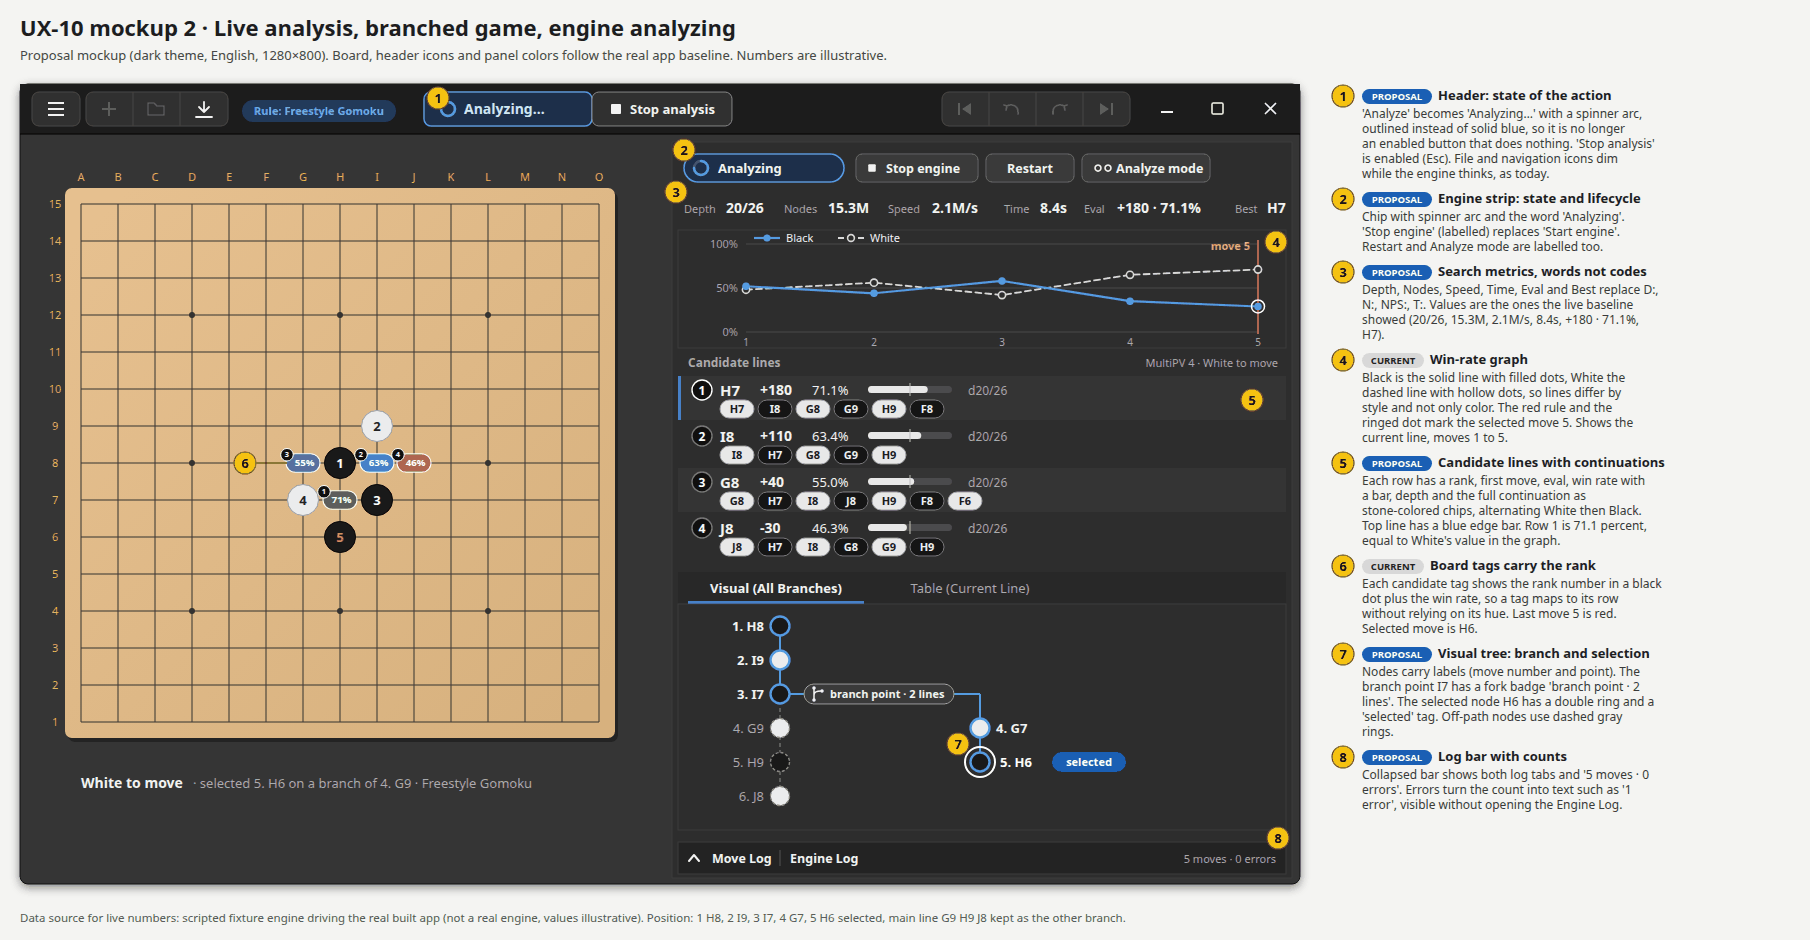
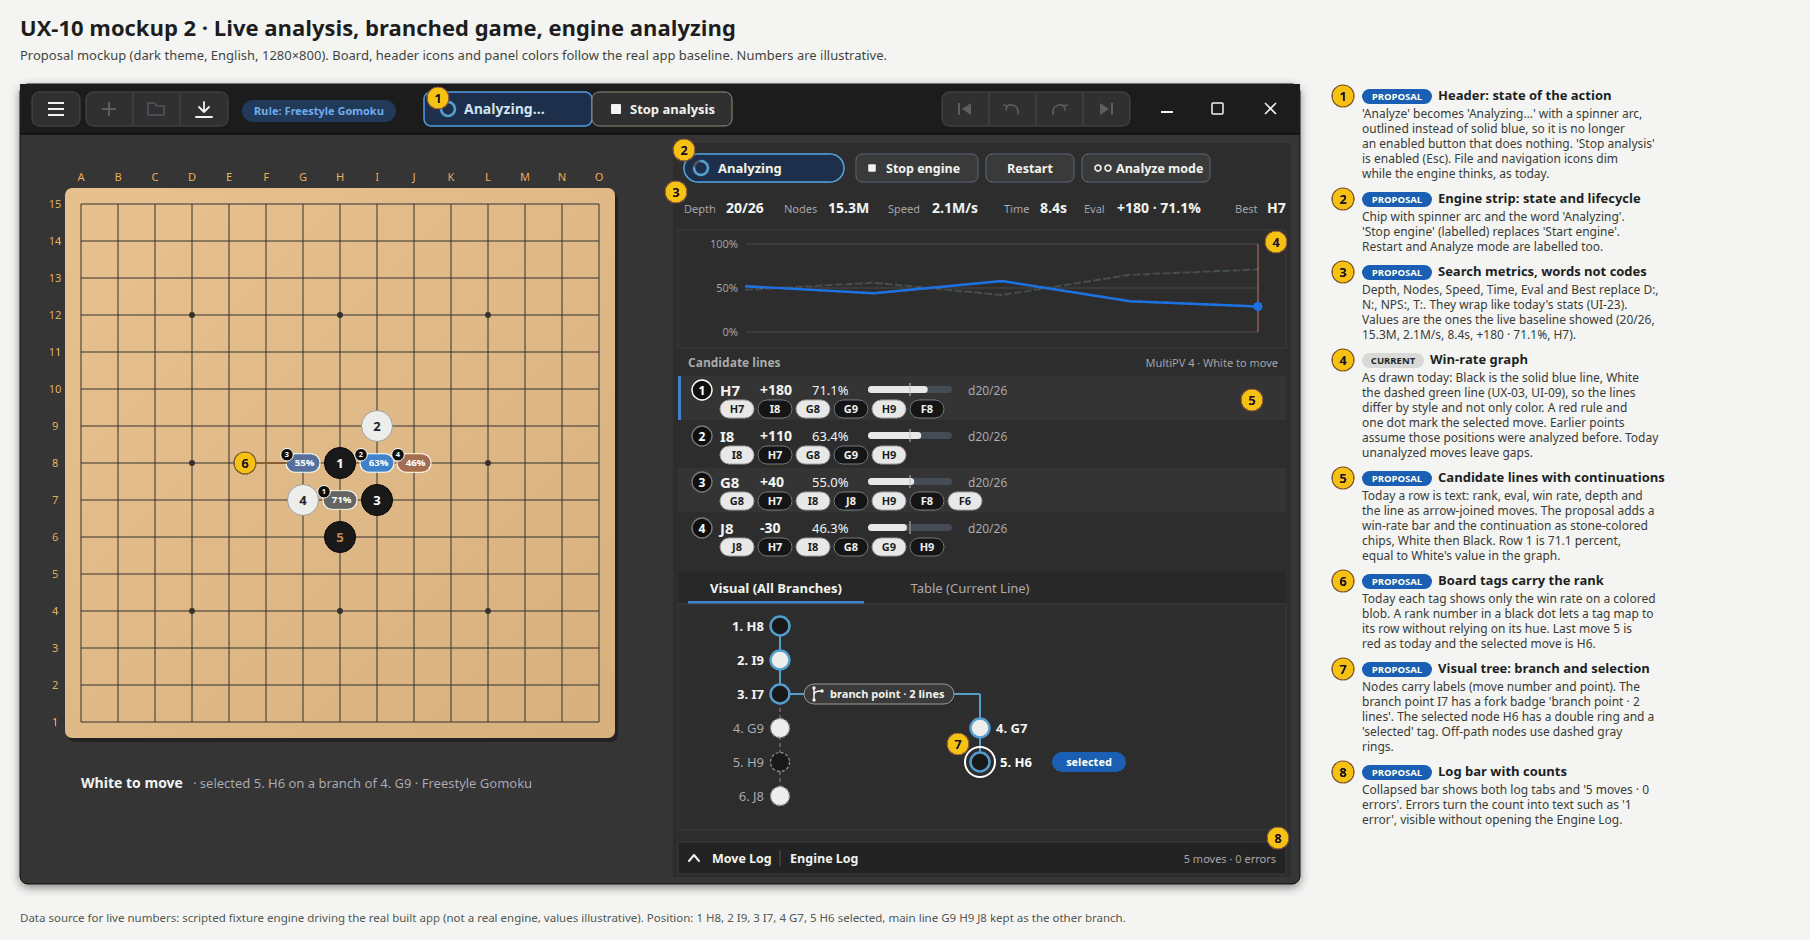
UX-10: tag current versus proposed items and cite earlier decisions
Mark the board rank badge, candidate chips and metric words as proposals,
draw the win graph as it is today (solid blue Black, dashed green White),
keep the UI-08 graph axes and drop the 'no moves yet' caption, record the
UI-21 partial reversal, and turn tracking paths into links.

diff --git a/docs/design/UX-10-analysis-workspace-spec.md b/docs/design/UX-10-analysis-workspace-spec.md
@@ -1,7 +1,7 @@
 # UX-10 — Analysis workspace: interaction spec
 
 Task: [UX-10](../todo/UX-10-analysis-workspace-design.md). Review date 2026-11-18, app v0.12.0 (main `375532a`), dark theme, English.
-This is a design only. Nothing here is implemented. Every item is tagged **Current** (observed in the built app or read from source) or **Proposal**.
+This is a design only. Nothing here is implemented. Every item is tagged **Current** (observed in the built app or read from source) or **Proposal**. The method is an expert heuristic walkthrough of the built app (visibility of system status, consistency, recognition over recall, error recovery, per [ux-research-usability](../knowledge/ux-research-usability.md)). It is not evidence from users.
 
 ## Deliverables
 
@@ -24,7 +24,7 @@ Method: the Release build of this worktree, run under Xvfb with an isolated sett
 | B1 | A blue **Analyze** header button and an unlabelled ▶ icon in the engine strip can both start the engine. Header **Stop** (stops analysis) and the strip's ■ icon (stops the engine process) look alike. Only tooltips tell them apart. | [01](baseline/01-new-game-engine-off.png), source `main_window.cpp` (`onStartAnalysis`, `signal_start`, `signal_stop`) |
 | B2 | While the engine thinks, **Analyze** keeps its solid blue look. File and navigation icons dim. | [02](baseline/02-live-analysis-thinking.png) |
 | B3 | The state chip reads OFF, ON, THINKING, CRASHED. The glyph is the same round dot, only its color changes. "ON" does not say idle. | [01](baseline/01-new-game-engine-off.png), [02](baseline/02-live-analysis-thinking.png), [03](baseline/03-after-stop-idle.png), [06](baseline/06-engine-crashed.png), `engine_status.cpp` |
-| B4 | The engine-off analysis area is not fully quiet. It shows `D: - N: - NPS: -` dashes and an empty 100/50/0% graph. | [01](baseline/01-new-game-engine-off.png) |
+| B4 | The engine-off analysis area shows `D: - N: - NPS: -` dashes and an empty 0/50/100% graph scaffold. There is no placeholder text. The scaffold was kept on purpose by [UI-08](../todo/UI-08-remove-empty-state-placeholder-text.md). | [01](baseline/01-new-game-engine-off.png) |
 | B5 | With a bad engine path, Analyze leaves the chip at OFF and shows `D: 0 N: 0 NPS: 0/s Eval: 50.0%`. The only message, `Failed to start engine`, is in the Engine Log tab, which is hidden behind the Move Log tab. | [07](baseline/07-bad-engine-path-stays-off.png), [08](baseline/08-bad-engine-path-engine-log.png) |
 | B6 | After a crash the chip says CRASHED and a red dismissible banner names the engine. The candidate rows and metrics from before the crash stay on screen, unmarked. | [06](baseline/06-engine-crashed.png) |
 | B7 | At 1280×800 the board is 462 px wide. The full-width log pane is 208 px high and mostly empty. | [01](baseline/01-new-game-engine-off.png) |
@@ -57,7 +57,7 @@ Differences from today (all **Proposal**): labelled engine strip, metrics with w
 |---|---|---|---|
 | Header primary | **Analyze** (F5) | Starts the engine if it is not running, then analyzes the selected position. Action `win.analyze`. | **Current** and unchanged. Proposal adds the F5 hint and the tooltip "Starts the engine, then analyzes this position". |
 | Header secondary | **Stop analysis** (Esc) | Stops the search only. The engine stays running. Action `win.stop`. | Today labelled "Stop". Proposal: rename. |
-| Strip | **Start engine** / **Stop engine** | Launch or terminate the engine process. Never starts a search. | Today unlabelled ▶ and ■ icons with tooltips. Proposal: text labels, and only one of the two is shown at a time. |
+| Strip | **Start engine** / **Stop engine** | Launch or terminate the engine process. Never starts a search. | Today unlabelled ▶ and ■ icons with tooltips. Proposal: text labels, and only one of the two is shown at a time. This reverses part of [UI-21](../todo/UI-21-modern-chrome-icons-css.md), which made the engine-status buttons icons. The header keeps its two text labels as UI-21 intended. |
 | Strip | **Restart** | Reloads the engine. | Today ↻ icon. |
 | Strip | **Analyze mode** | Continuously analyzes each position. | Today ∞ icon. |
 
@@ -79,16 +79,16 @@ Each state therefore has a word, a distinct shape and a different set of enabled
 
 ## Quiet engine-off panes (UI-08)
 
-**Proposal:** with the engine off the metrics row, graph contents, candidate lines and tree stay empty with no placeholder text. That means hiding the dash metrics and the empty axes from B4. The first action is carried by the controls only. A failure is not an empty state, so the Disconnected message is allowed.
+Current behavior already follows [UI-08](../todo/UI-08-remove-empty-state-placeholder-text.md): no placeholder text, and the 0/50/100% graph scaffold stays because UI-08 kept it. This spec keeps both. **Proposal:** the only change is to hide the dash-filled metrics row while the engine is off (B4). The first action is carried by the controls alone. The status line under the board says only the side to move and the rule, not a "No moves yet" hint. A failure is not an empty state, so the Disconnected message is allowed.
 
 ## Live analysis view
 
 Mockup 2 carries one position: 1 H8, 2 I9, 3 I7, then the selected branch 4 G7, 5 H6, with White to move. The other branch from 3. I7 is 4 G9, 5 H9, 6 J8.
 
-- **Candidates** show rank, first move, eval, win rate with a bar, depth and the full continuation as chips colored by the side that plays them. Board tags carry the same rank number inside a black dot, so a tag finds its row without relying on its hue. Row 1 is 71.1 percent, equal to White's point in the graph.
-- **Graph** (`WinGraphMode::BothSide`, the default): Black is the solid line with filled dots, White the dashed line with hollow dots. A red rule and a ringed dot mark move 5. The graph follows the current line, moves 1 to 5.
-- **Metrics** use words: Depth, Nodes, Speed, Time, Eval, Best.
-- Numbers are the ones the fixture produced in the live baseline ([02](baseline/02-live-analysis-thinking.png)) apart from the graph history and tree columns, which were invented to match.
+- **Candidates.** **Current:** each row is text with rank, eval, win rate, depth and the line as arrow-joined moves, and the board tags show the win rate on a colored blob. **Proposal:** a win-rate bar, the continuation as chips colored by the side that plays them, and a rank number inside a black dot on each board tag so a tag finds its row without relying on its hue. Row 1 is 71.1 percent, equal to White's point in the graph.
+- **Graph.** **Current:** `WinGraphMode::BothSide` is the default. Black is the solid blue line, White the dashed green line ([UX-03 and UI-09](../fix-log/2026-08-31-ui-09-wingraph-single-side-black-and-thicker-line.md) style cue), with a red rule and one dot at the selected move. It follows the current line. The mockup shows lines only, without per-point markers, as drawn today. **Assumption:** points for moves 1 to 4 exist because those positions were analyzed earlier. Unanalyzed moves leave gaps today.
+- **Metrics.** **Proposal:** words (Depth, Nodes, Speed, Time, Eval, Best) instead of D:, N:, NPS:, T:. They wrap in the same flow box ([UI-23](../todo/UI-23-typography-and-layout-polish.md)).
+- **Data.** Numbers for the candidates and metrics are the ones the fixture produced in the live baseline ([02](baseline/02-live-analysis-thinking.png)). The graph history and tree columns were invented to match.
 
 ## Visual and Table views
 
@@ -111,17 +111,26 @@ See [visual-and-table-views.svg](visual-and-table-views.svg).
 
 See [narrow-window-and-panels.svg](narrow-window-and-panels.svg).
 
-**Discovery (Current):** the toggles exist only under main menu → View, as one "Analysis Panel" entry and one "Move/Engine Log Panel" entry. There is no shortcut, no palette command and no on-screen cue once a panel is hidden (B11).
+**Discovery (Current):** the toggles exist only under main menu → View, as one "Analysis Panel" entry and one "Move/Engine Log Panel" entry. There is no shortcut, no palette command and no on-screen cue once a panel is hidden (B11). Session-only visibility was a deliberate choice to avoid a settings-schema change, and shortcuts and palette entries were recorded as unfiled ideas in the [2026-11-12 audit entry](../audit/2026-11-log.md). This spec does not change persistence.
 
 **Board space (Current, measured at 926×560):** default 290 px, logs hidden 382 px, both hidden 427 px. At the default size the numbers on the stones are about 8 px and the 4 candidate lines show 2.
 
 **Proposal:**
 
-1. Replace the full-width log pane with a 28 px **log bar** in the analysis column that shows the "Move Log" and "Engine Log" tabs. One click on either opens a drawer in that column on that tab. The board stays 382 px at 926×560.
+1. Replace the full-width log pane with a 32 px **log bar** in the analysis column that shows the "Move Log" and "Engine Log" tabs. One click on either opens a drawer in that column on that tab. The board stays 382 px at 926×560.
 2. The bar shows counts as text ("5 moves · 0 errors", "Engine Log · 1 error") so a failed start is not hidden (B5).
 3. Split the View entry into **Analysis Panel**, **Move Log** and **Engine Log**, and add the same commands to the Ctrl+K palette.
 4. A hidden Analysis panel leaves a 28 px rail labelled "Analysis". Clicking it restores the panel. Board about 395 px with the bar kept (an estimate, 427 px was measured with nothing below the board).
 5. Below about 1000 px wide or 700 px high, start with the bar folded. A manual choice wins for the session.
+
+## Earlier decisions this design touches
+
+| Decision | Effect |
+|---|---|
+| [UI-08](../todo/UI-08-remove-empty-state-placeholder-text.md) clean empty panes, graph axes kept | Kept. Only the dash metrics row is proposed to hide. |
+| [UI-21](../todo/UI-21-modern-chrome-icons-css.md) icon-first chrome | Partly reversed in the engine strip only (text labels). Header icons and the two labelled primary buttons stay. |
+| [UI-23](../todo/UI-23-typography-and-layout-polish.md) type scale, wrapping engine stats | Kept. Word labels must wrap in the flow box. |
+| Session-only panel visibility ([audit 2026-11-12](../audit/2026-11-log.md)) | Kept. Palette entries and shortcuts were already noted there as ideas. |
 
 ## Open questions
 

diff --git a/docs/todo/UX-10-analysis-workspace-design.md b/docs/todo/UX-10-analysis-workspace-design.md
@@ -1,6 +1,6 @@
 # UX-10 — Design the analysis workspace for a new game and live analysis
 
-**Status:** ✅ DONE (Active — Sprint 28) — five annotated mockups and an interaction spec delivered under `docs/design/` (see Result). Verified by a live baseline review, a mockup walkthrough and ctest 5/5. Fix-log: docs/fix-log/2026-11-18-ux-10-analysis-workspace-design.md
+**Status:** ✅ DONE (Active — Sprint 28) — five annotated mockups and an interaction spec delivered under `docs/design/` (see Result). Verified by a live baseline review, a mockup walkthrough and ctest 5/5. Fix-log: [detail](../fix-log/2026-11-18-ux-10-analysis-workspace-design.md)
 **Area:** Main window layout, engine controls, analysis panel, move tree, and logs
 **Priority:** P3
 **Source:** User's main-window screenshot and UI design discussion, 2026-11-18
@@ -66,6 +66,8 @@ Deliverables, all under [docs/design/](../design/):
 
 Headline proposals: keep the blue **Analyze** as the first action and add a labelled secondary **Start engine**, rename Stop to **Stop analysis**, give each engine state a word plus a shape (Off, Idle, Analyzing, Disconnected), mark the selected node and fork points in Visual, mark the current row and forks in Table, and replace the full-width log pane with a log bar so the board keeps its space.
 
+Earlier decisions touched: UI-08 is kept (no placeholder text, graph axes stay, only the dash metrics row is proposed to hide), UI-21 is partly reversed for the engine-strip buttons (text labels) and the session-only panel visibility decision is kept. The spec lists them in a table.
+
 Findings worth a follow-up, none filed: a failed engine start stays at OFF with the error only in the Engine Log tab (B5), stale candidate rows stay after a crash (B6), and the panel toggles have no shortcut and are not in the command palette (B11).
 
 ## Verification record
@@ -73,6 +75,8 @@ Findings worth a follow-up, none filed: a failed engine start stays at OFF with 
 **Data source.** The Release build of this worktree (v0.12.0, main `375532a`) ran under `xvfb-run` with `GDK_BACKEND=x11` and `WAYLAND_DISPLAY` unset, from a copied binary with its own `rapfi-gui.settings` in `/tmp/ux10-run/app/` (`language=en`) so no user settings were touched. No Rapfi binary was available, so the engine was a **scripted fixture** at `/tmp/ux10-run/fixture_engine.py` (outside the repo). It speaks the Gomocup/Yixin subset the app uses (`START`, `YXBOARD`, `YXNBEST`, `STOP`) and streams `INFO` and `MESSAGE (n)` PV lines from a proximity heuristic, so the live numbers are illustrative. The game was entered by clicking the board with `xdotool`, screenshots by PIL `ImageGrab`.
 
 **Live baseline walkthrough** (states seen in the real app, screenshots in `docs/design/baseline/`): new game with the engine off (01), analysis from Analyze with 4 candidate lines and a branched tree (02), after Stop (03), Table and Visual tabs (04, 05, 13, 14), engine killed mid-search (06), bad engine path (07, 08), View menu (09), narrow window with default panels, logs hidden, and both hidden (10, 11, 12).
+
+**Reading and decisions checked.** [ux-research-usability](../knowledge/ux-research-usability.md) (heuristic walkthrough, not user evidence), UI-08, UI-21, UI-23, the 0.12.0 changelog entry and AGENTS.md were read. `python3.13 scripts/audit-search.py` was queried for the icon-first header, collapsible panels and empty-state decisions. The win-graph draw code was read to mark which graph cues exist today.
 
 **Mockup walkthrough against the acceptance criteria**, done by opening each rendered PNG:
 

diff --git a/docs/fix-log/2026-11-18-ux-10-analysis-workspace-design.md b/docs/fix-log/2026-11-18-ux-10-analysis-workspace-design.md
@@ -13,16 +13,16 @@ Not a bug fix. This entry records a design deliverable, so there is no root caus
 
 ## Fix
 
-Added under `docs/design/` only: `UX-10-analysis-workspace-spec.md`, five SVG mockups with PNG renders, and 14 baseline screenshots in `baseline/`. Updated `docs/design/README.md`, the UX-10 todo detail and the `TODO.md` line. No application source, tests, engine protocol or persistence changed.
+Added under `docs/design/` only: the [interaction spec](../design/UX-10-analysis-workspace-spec.md), five SVG mockups with PNG renders ([new game](../design/new-game-engine-off.svg), [live analysis](../design/live-analysis-branched.svg), [Visual and Table](../design/visual-and-table-views.svg), [engine states](../design/engine-states.svg), [narrow window](../design/narrow-window-and-panels.svg)), and 14 baseline screenshots in [baseline/](../design/baseline/). Updated [docs/design/README.md](../design/README.md), the [UX-10 todo detail](../todo/UX-10-analysis-workspace-design.md) and the `TODO.md` line. No application source, tests, engine protocol or persistence changed.
 
 ## Verification
 
 - Live baseline: Release build of this worktree under `xvfb-run` with x11 forced, copied binary and its own settings file in `/tmp/ux10-run/app/`. Engine: scripted fixture `/tmp/ux10-run/fixture_engine.py`, not a real engine and not in the repo, so numbers are illustrative. Board entered with `xdotool` clicks, screenshots with PIL.
 - Mockups: SVG generated by a script kept outside the repo (`/tmp/ux10-run/gen/`), rendered with headless Chrome, and each PNG opened and read. All SVGs parse as XML. Annotation text has no semicolons.
 - Acceptance walkthrough recorded in the todo detail.
-- `ctest`: 5/5 passed (310 and 142 doctest cases, 0 skipped). `node scripts/check-tracking-sync.js --full`, `node scripts/check-task-structure.js` and `git diff --check` were run before the commit.
+- `ctest`: 5/5 passed (310 and 142 doctest cases, 0 skipped). `node scripts/check-tracking-sync.js --full`, `node scripts/check-task-structure.js` and `git diff --check` were run after staging all new files.
 - Not verified: light theme, other board sizes, MultiPV above 4, Renju marks, other languages, screen readers. The 395 px board in mockup 5 panel D is an estimate.
 
 ## Knowledge
 
-`.agents/skills/ui-ux-review/SKILL.md`, `docs/knowledge/ux-research-usability.md`, [UI-08](../todo/UI-08-remove-empty-state-placeholder-text.md) (quiet empty panes).
+[ui-ux-review skill](../../.agents/skills/ui-ux-review/SKILL.md), [ux-research-usability](../knowledge/ux-research-usability.md) (heuristic review, not user evidence), [UI-08](../todo/UI-08-remove-empty-state-placeholder-text.md) (kept), [UI-21](../todo/UI-21-modern-chrome-icons-css.md) (partly reversed in the engine strip), [UI-23](../todo/UI-23-typography-and-layout-polish.md), and [audit 2026-11-12](../audit/2026-11-log.md) for session-only panel visibility. Audit search was run for the icon-first, collapsible-panel and empty-state decisions.
